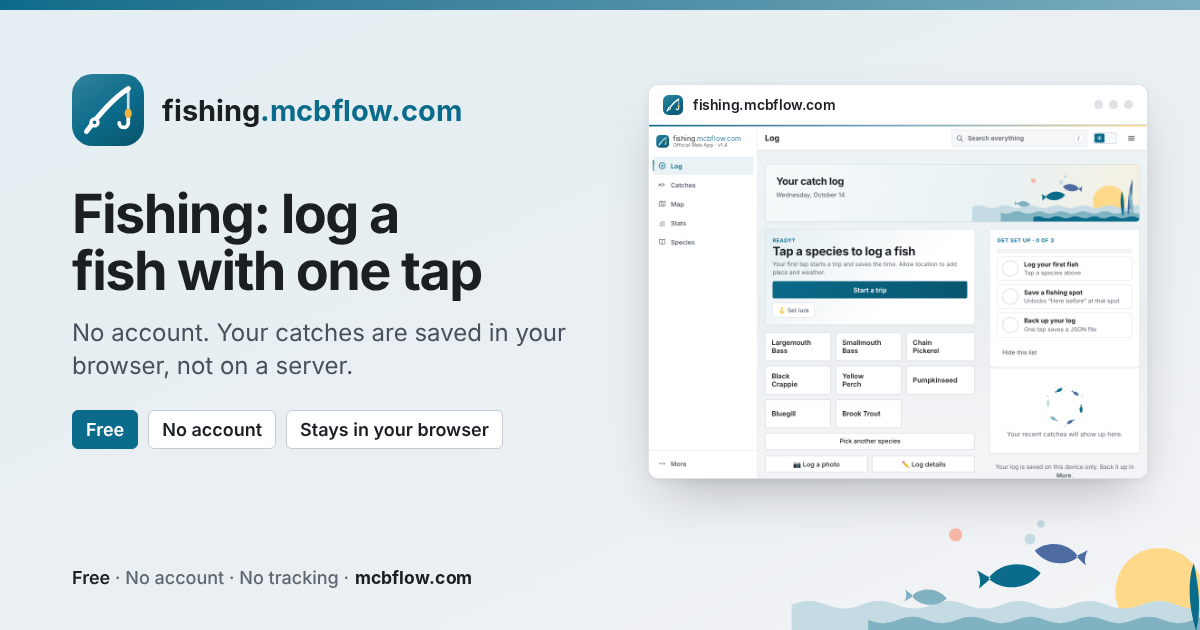
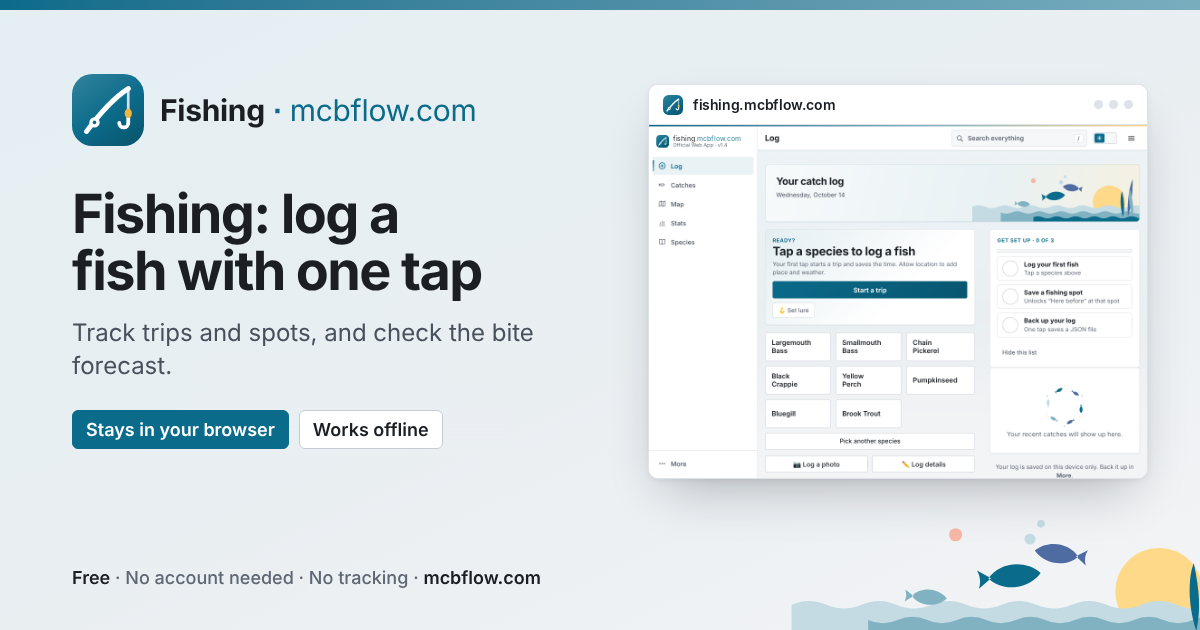
Add files via upload

diff --git a/index.html b/index.html
@@ -6,25 +6,25 @@
 <meta name="viewport" content="width=device-width,initial-scale=1,viewport-fit=cover">
 <meta name="theme-color" content="#0B6B8A">
 <title>Fishing | Home</title>
-<meta name="description" content="A free fishing log: tap a species to log a catch, then track trips, spots, personal bests and a bite forecast. No account. Your catches are saved in your browser, not on a server.">
+<meta name="description" content="A free fishing log: tap a species to log a catch, then track trips, spots, personal bests and a bite forecast. No account needed. Your catches are saved in your browser, not on a server.">
 <link rel="canonical" href="https://fishing.mcbflow.com/">
 <meta property="og:type" content="website">
 <meta property="og:site_name" content="Fishing">
 <meta property="og:title" content="Fishing: log a fish with one tap">
-<meta property="og:description" content="No account. Your catches are saved in your browser, not on a server.">
+<meta property="og:description" content="No account needed. Your catches are saved in your browser, not on a server.">
 <meta property="og:url" content="https://fishing.mcbflow.com/">
 <meta property="og:image" content="https://fishing.mcbflow.com/og-image.png?v=4">
 <meta property="og:image:type" content="image/png">
 <meta property="og:image:width" content="1200">
 <meta property="og:image:height" content="630">
-<meta property="og:image:alt" content="fishing.mcbflow.com: log a fish with one tap. The app's species buttons and a Start a trip button.">
+<meta property="og:image:alt" content="Fishing: Log a fish with one tap. The app's species buttons and a Start a trip button.">
 <meta name="twitter:card" content="summary_large_image">
 <meta name="twitter:title" content="Fishing: log a fish with one tap">
-<meta name="twitter:description" content="No account. Your catches are saved in your browser, not on a server.">
+<meta name="twitter:description" content="No account needed. Your catches are saved in your browser, not on a server.">
 <meta name="twitter:image" content="https://fishing.mcbflow.com/og-image.png?v=4">
-<meta name="twitter:image:alt" content="fishing.mcbflow.com: log a fish with one tap. The app's species buttons and a Start a trip button.">
+<meta name="twitter:image:alt" content="Fishing: Log a fish with one tap. The app's species buttons and a Start a trip button.">
 <script>var __t="light";try{if(localStorage.getItem("fishing.theme")==="dark")__t="dark"}catch(e){}document.documentElement.setAttribute("data-theme",__t)</script>
-<script type="application/ld+json">{"@context": "https://schema.org", "@type": "WebApplication", "name": "fishing.mcbflow.com", "alternateName": "Fishing", "url": "https://fishing.mcbflow.com/", "description": "A free fishing log that runs in your browser. Log a catch with one tap and track trips, spots, personal bests and a bite forecast. No account; your catches stay on your device.", "applicationCategory": "SportsApplication", "operatingSystem": "Any (runs in a web browser)", "browserRequirements": "Requires JavaScript.", "isAccessibleForFree": true, "image": "https://fishing.mcbflow.com/og-image.png", "offers": {"@type": "Offer", "price": "0", "priceCurrency": "USD"}}</script>
+<script type="application/ld+json">{"@context": "https://schema.org", "@type": "WebApplication", "name": "fishing.mcbflow.com", "alternateName": "Fishing", "url": "https://fishing.mcbflow.com/", "description": "A free fishing log that runs in your browser. Log a catch with one tap and track trips, spots, personal bests and a bite forecast. No account needed; your catches stay on your device.", "applicationCategory": "SportsApplication", "operatingSystem": "Any (runs in a web browser)", "browserRequirements": "Requires JavaScript.", "isAccessibleForFree": true, "image": "https://fishing.mcbflow.com/og-image.png", "offers": {"@type": "Offer", "price": "0", "priceCurrency": "USD"}}</script>
 <meta name="apple-mobile-web-app-capable" content="yes">
 <meta name="mobile-web-app-capable" content="yes">
 <meta name="apple-mobile-web-app-title" content="Fishing">
@@ -953,6 +953,7 @@ body.mb-shell{display:block;height:100dvh;overflow:hidden}
 .trip-act{min-width:0;justify-content:flex-start;gap:8px;padding:0 12px;border-style:solid}
 .trip-act .uic{color:var(--accent)}
 .trip-act .lbl{min-width:0;overflow:hidden;text-overflow:ellipsis;white-space:nowrap}
+.start-row .lure-btn{justify-content:center;padding:0 14px}
 .trip-info{display:flex;flex-wrap:wrap;gap:6px}
 @media (max-width:360px){.trip-act,.start-row .btn{padding:0 10px;gap:6px}}
 /* small Ripple art in the empty "recent catches" card */

diff --git a/404.html b/404.html
@@ -26,8 +26,8 @@ a:focus-visible{outline:2px solid var(--accent);outline-offset:2px;border-radius
 header{width:min(720px,100% - 32px);margin:0 auto;padding:20px 0 0}
 .brand{display:inline-flex;align-items:center;gap:10px;color:var(--ink);text-decoration:none;font-weight:650;font-size:16px}
 .brand svg{width:34px;height:34px;flex:none;border-radius:8px}
-.brand i{font-style:normal;color:var(--accent);font-weight:500}
-.brand i .sep{display:inline-block;margin:0 .32em 0 .34em;color:var(--muted);font-weight:400}
+.brand i{font-style:normal;color:var(--accent);font-weight:400}
+.brand i .sep{display:inline-block;margin:0 .32em 0 .34em;color:var(--accent);font-weight:700}
 main{flex:1;width:min(720px,100% - 32px);margin:18px auto 24px}
 .card{position:relative;overflow:hidden;background:var(--surface);border:1px solid var(--border);border-radius:8px;
  box-shadow:0 1px 2px rgba(20,24,31,.06),0 12px 32px -18px rgba(20,24,31,.28);padding:28px 28px 0}

diff --git a/privacy.html b/privacy.html
@@ -51,7 +51,7 @@ h1{font-weight:650;letter-spacing:-.015em}h2{font-weight:650}
 .brand svg{display:block;flex:none;width:28px;height:28px}
 .brand .bt{display:flex;flex-direction:column;line-height:1.15}.brand b{font-size:14.5px;font-weight:650;color:var(--ink)}.brand b i{font-style:normal;color:var(--accent)}
 .brand .bt span{font-size:11px;color:var(--muted)}
-.brand b i .sep{display:inline-block;margin:0 .32em 0 .34em;font-size:inherit;font-weight:400;color:var(--muted)}
+.brand b i .sep{display:inline-block;margin:0 .32em 0 .34em;font-size:inherit;font-weight:700;color:var(--accent)}
 .back{display:block}
 .foot{max-width:720px;margin:0 auto;padding:0 16px 40px;font-size:14px;color:var(--muted)}
 </style>

diff --git a/terms.html b/terms.html
@@ -49,7 +49,7 @@ h1{font-weight:650;letter-spacing:-.015em}h2{font-weight:650}
 .brand svg{display:block;flex:none;width:28px;height:28px}
 .brand .bt{display:flex;flex-direction:column;line-height:1.15}.brand b{font-size:14.5px;font-weight:650;color:var(--ink)}.brand b i{font-style:normal;color:var(--accent)}
 .brand .bt span{font-size:11px;color:var(--muted)}
-.brand b i .sep{display:inline-block;margin:0 .32em 0 .34em;font-size:inherit;font-weight:400;color:var(--muted)}
+.brand b i .sep{display:inline-block;margin:0 .32em 0 .34em;font-size:inherit;font-weight:700;color:var(--accent)}
 .back{display:block}
 .foot{max-width:720px;margin:0 auto;padding:0 16px 40px;font-size:14px;color:var(--muted)}
 </style>
